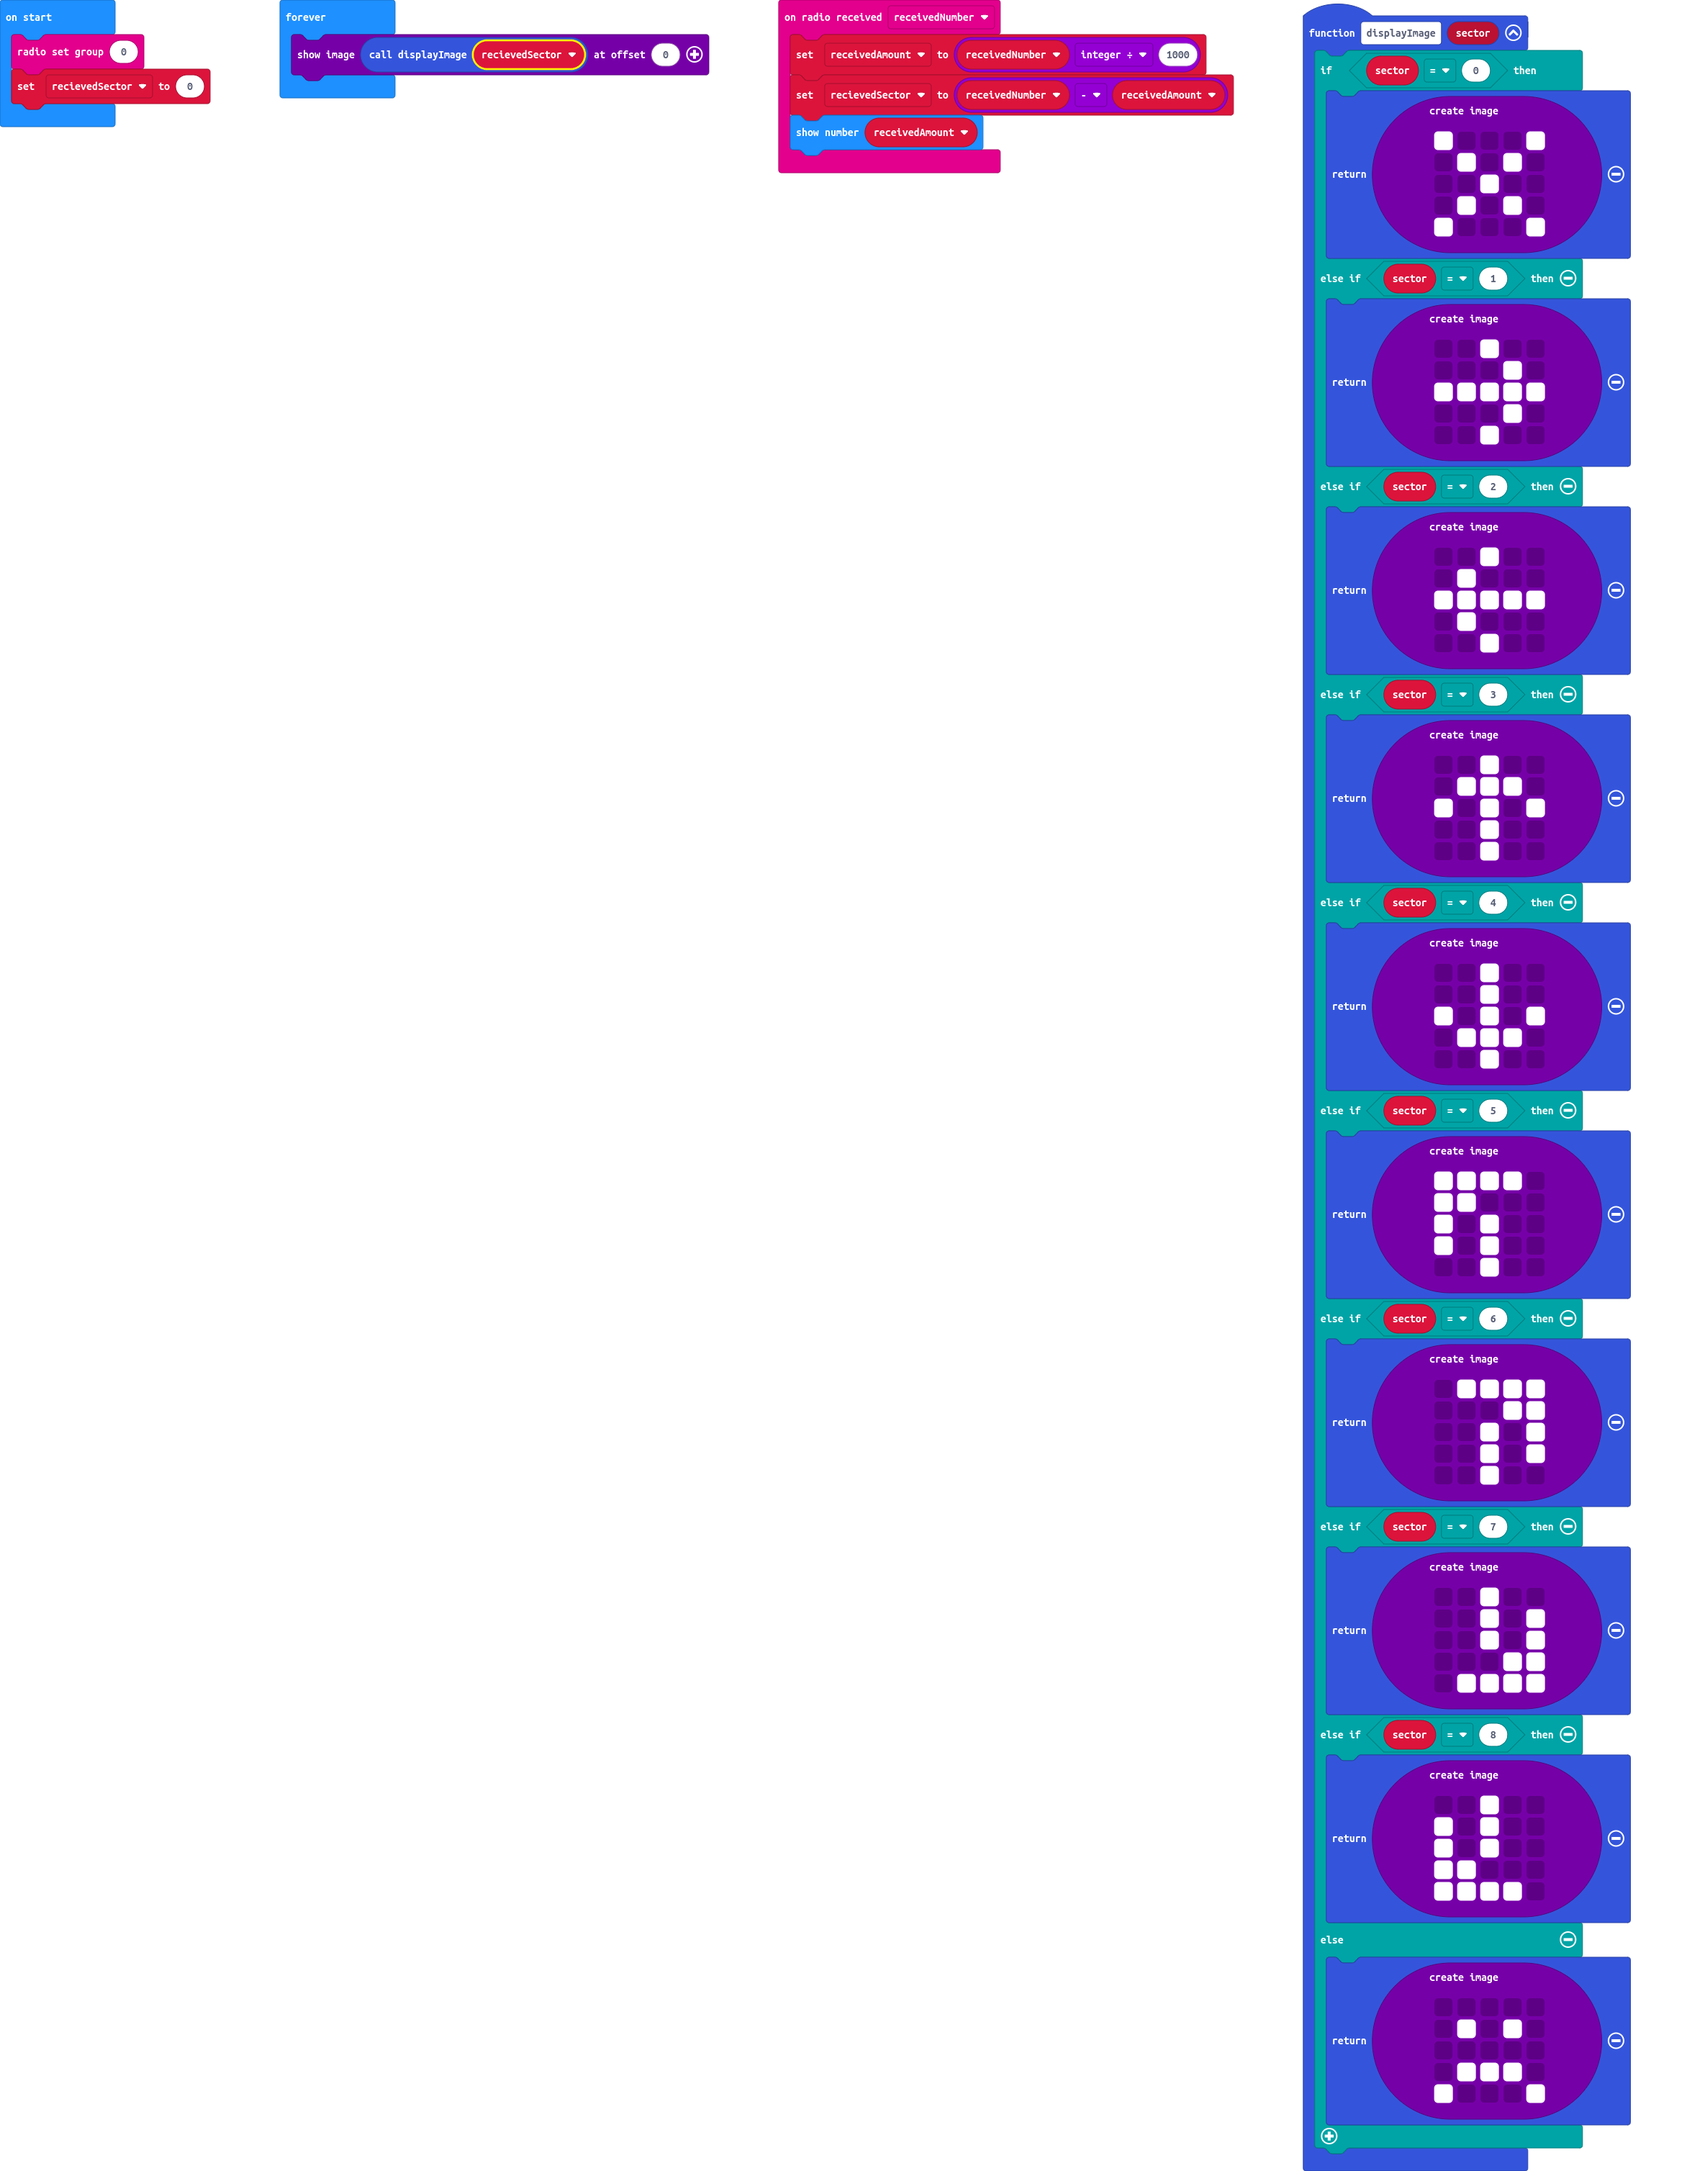
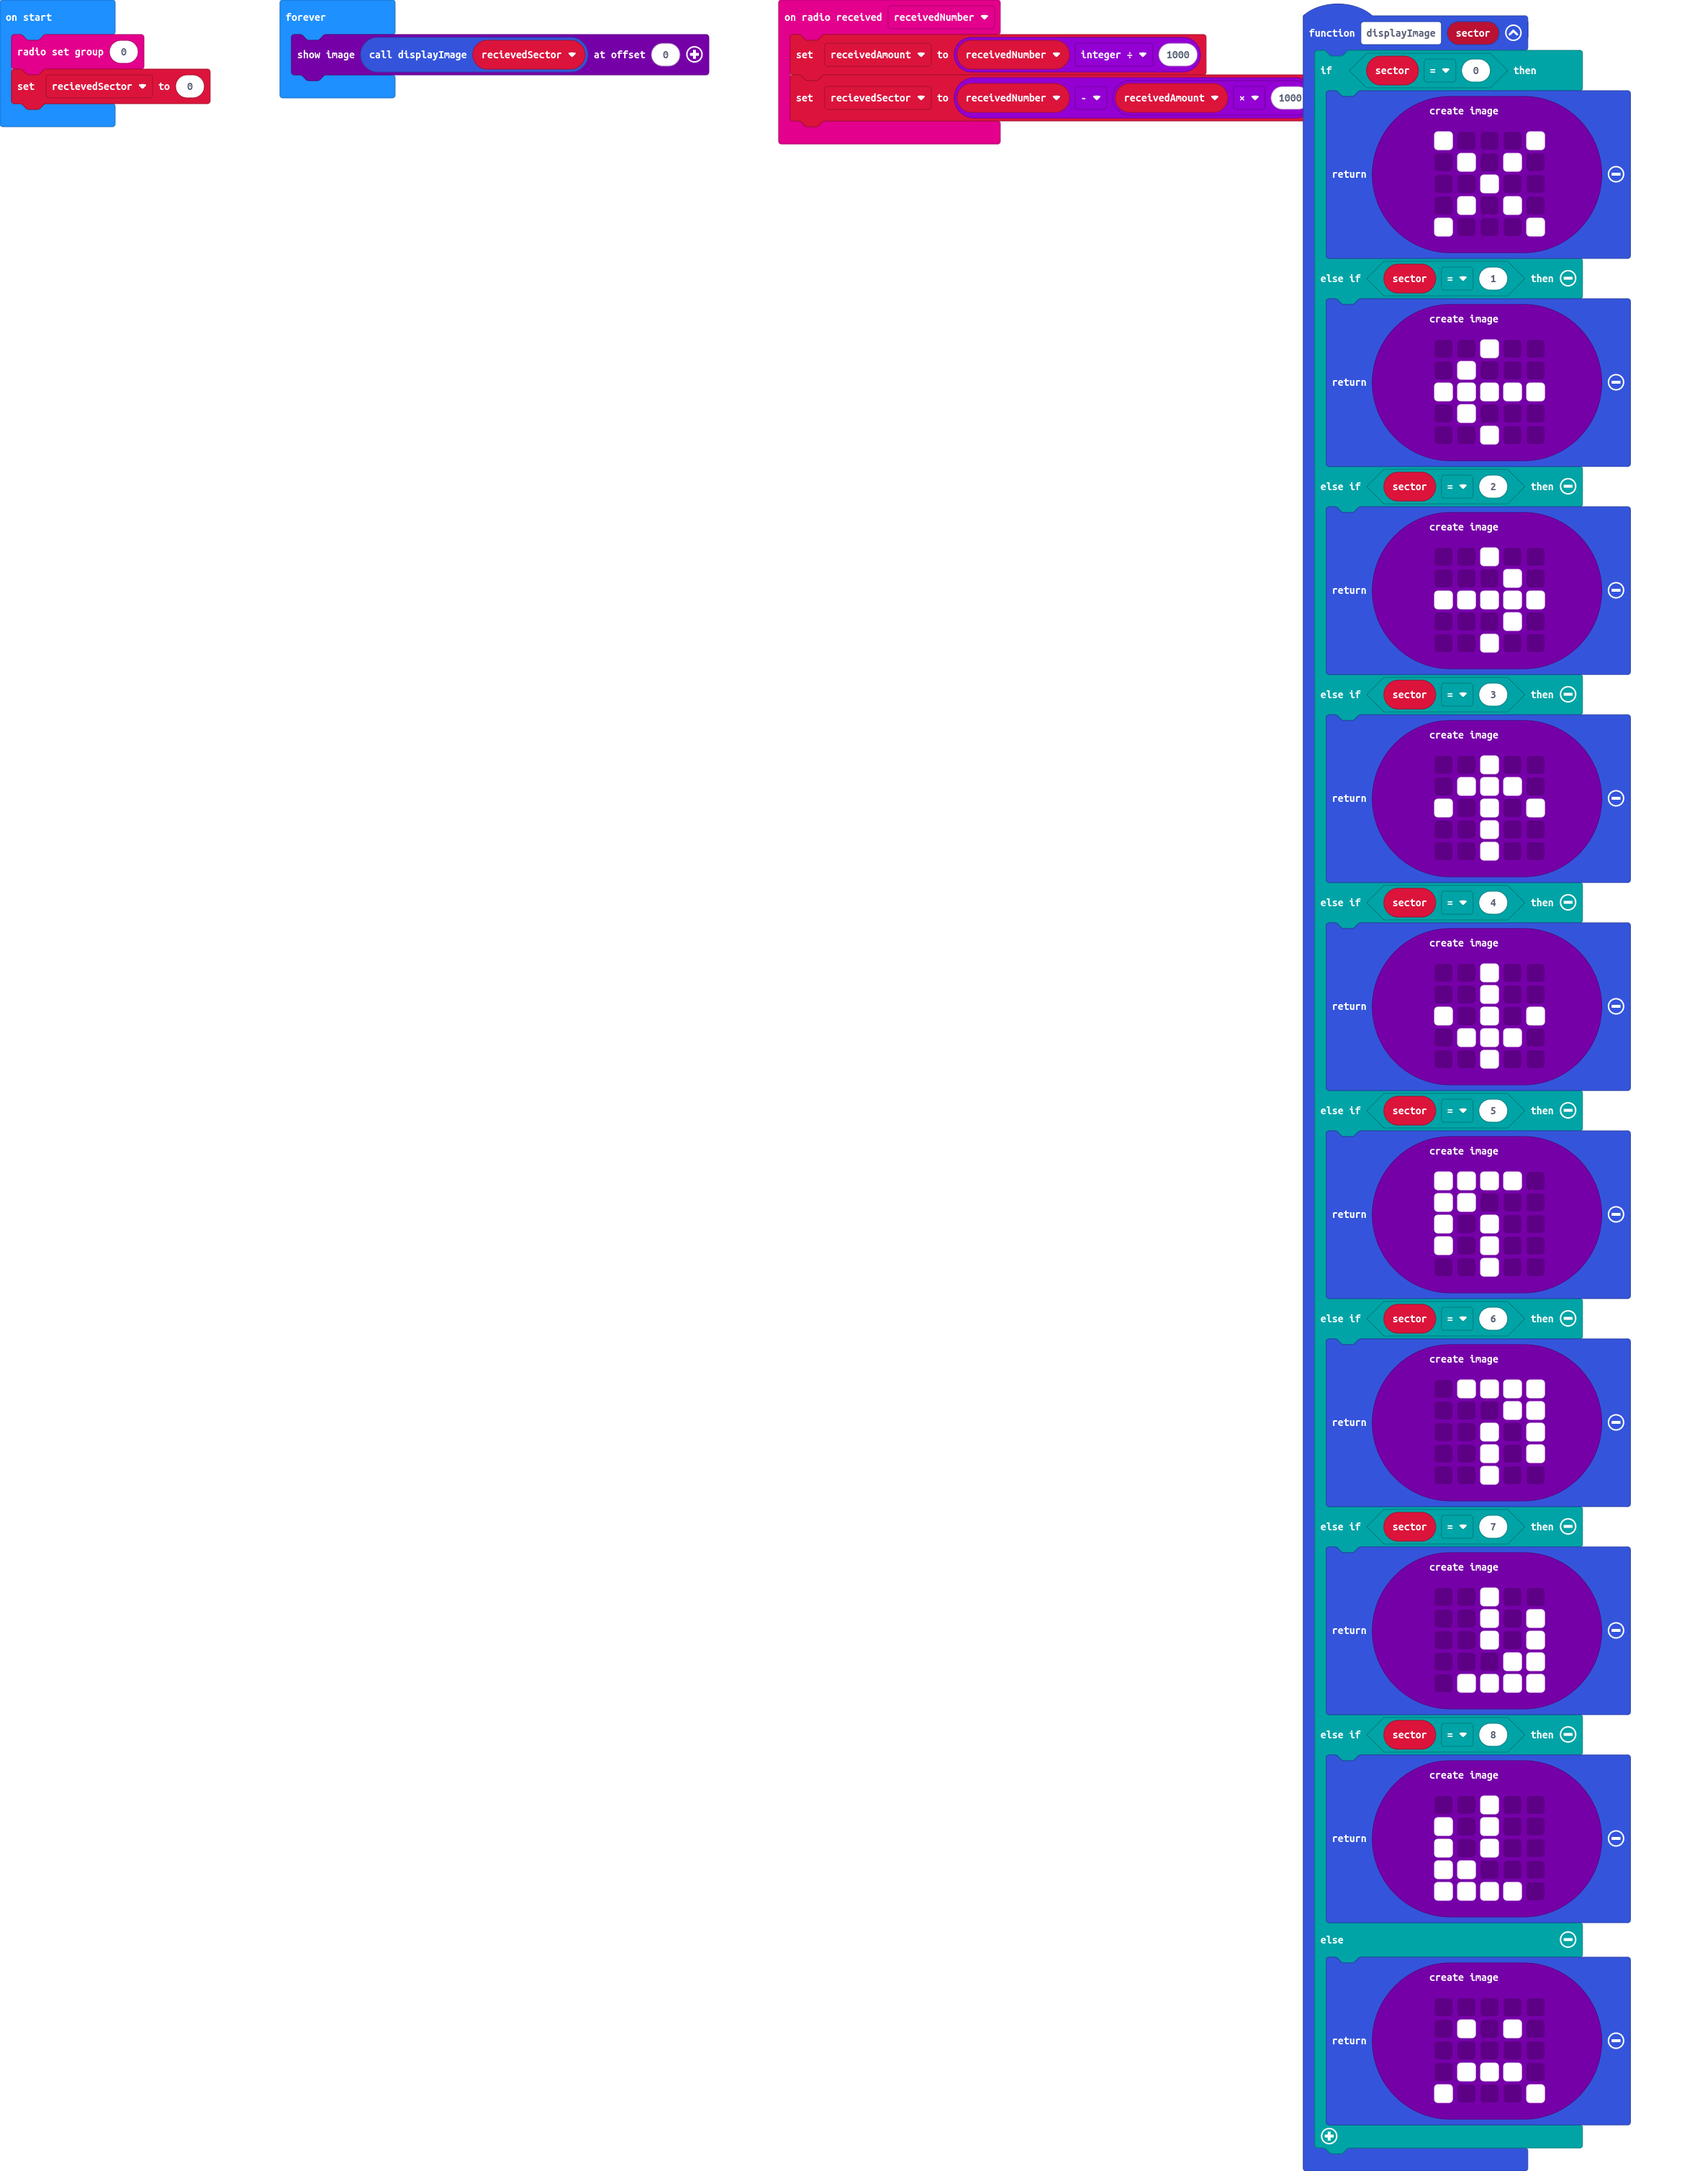
Transmit sector AND amount

Changed region(s): [[0.4373, 0.0312, 0.7809, 0.0935], [0.8434, 0.2493, 0.9059, 0.3117], [0.8434, 0.1558, 0.9059, 0.187]]

diff --git a/main.ts b/main.ts
@@ -1,7 +1,6 @@
 radio.onReceivedNumberDeprecated(function (receivedNumber) {
     receivedAmount = Math.idiv(receivedNumber, 1000)
-    recievedSector = receivedNumber - receivedAmount
-    basic.showNumber(receivedAmount)
+    recievedSector = receivedNumber - receivedAmount * 1000
 })
 function displayImage (sector: number) {
     if (sector == 0) {
@@ -15,17 +14,17 @@ function displayImage (sector: number) {
     } else if (sector == 1) {
         return images.createImage(`
             . . # . .
-            . . . # .
+            . # . . .
             # # # # #
-            . . . # .
+            . # . . .
             . . # . .
             `)
     } else if (sector == 2) {
         return images.createImage(`
             . . # . .
-            . # . . .
+            . . . # .
             # # # # #
-            . # . . .
+            . . . # .
             . . # . .
             `)
     } else if (sector == 3) {
